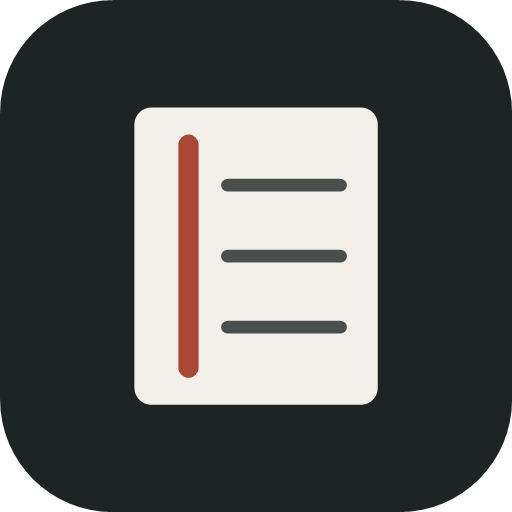
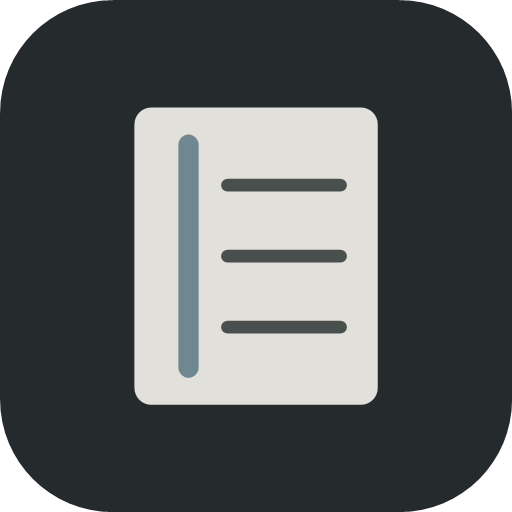
Soften migraine logging experience

Changed region(s): [[0.3438, 0.25, 0.4062, 0.75]]

diff --git a/styles.css b/styles.css
@@ -1,18 +1,19 @@
 :root {
-  --bg: #f3f0e9;
-  --surface: #fbfaf6;
-  --surface-2: #ece8df;
-  --text: #202423;
-  --text-dim: #666a66;
-  --line: #d4d0c7;
-  --line-strong: #aaa69d;
-  --accent: #a94735;
-  --accent-hover: #913a2c;
-  --accent-text: #fffaf5;
-  --danger: #9c302f;
-  --mild: #44735c;
-  --moderate: #a06a22;
-  --severe: #a94735;
+  --bg: #eceae5;
+  --surface: #f1efea;
+  --surface-2: #e2e0da;
+  --text: #333634;
+  --text-dim: #666b67;
+  --line: #d3d1ca;
+  --line-strong: #aaa9a3;
+  --accent: #536f78;
+  --accent-hover: #49636b;
+  --accent-text: #f3f1ec;
+  --danger: #86575a;
+  --mild: #4c6d5c;
+  --moderate: #755f35;
+  --severe: #86575a;
+  --choice-text: #fffaf5;
   --radius: 8px;
   --pad: 18px;
   --safe-b: env(safe-area-inset-bottom, 0px);
@@ -21,25 +22,27 @@
 
 @media (prefers-color-scheme: dark) {
   :root {
-    --bg: #111416;
-    --surface: #191d1f;
-    --surface-2: #222729;
-    --text: #eeeae2;
-    --text-dim: #aaa9a3;
-    --line: #34393a;
-    --line-strong: #595e5e;
-    --accent: #cc6d58;
-    --accent-hover: #db7b65;
-    --accent-text: #17100e;
-    --danger: #ec817b;
-    --mild: #78b091;
-    --moderate: #d2a05c;
-    --severe: #df7464;
+    --bg: #1b1e20;
+    --surface: #202426;
+    --surface-2: #262b2d;
+    --text: #c1c0ba;
+    --text-dim: #858986;
+    --line: #2c3234;
+    --line-strong: #3b4244;
+    --accent: #7b8e96;
+    --accent-hover: #8599a1;
+    --accent-text: #161b1d;
+    --danger: #b9787c;
+    --mild: #789683;
+    --moderate: #a48b60;
+    --severe: #a87579;
+    --choice-text: #161b1d;
     color-scheme: dark;
   }
 }
 
 * { box-sizing: border-box; }
+[hidden] { display: none !important; }
 
 body {
   margin: 0;
@@ -191,10 +194,10 @@ input:focus-visible, textarea:focus-visible, button:focus-visible, summary:focus
 .chip {
   min-height: 44px;
   padding: 8px 12px;
-  border: 1px solid var(--line-strong);
+  border: 1px solid var(--line);
   border-radius: 6px;
-  background: transparent;
-  color: var(--text);
+  background: color-mix(in srgb, var(--surface) 72%, transparent);
+  color: var(--text-dim);
   font: inherit;
   font-size: 0.87rem;
   cursor: pointer;
@@ -204,10 +207,33 @@ input:focus-visible, textarea:focus-visible, button:focus-visible, summary:focus
 .chip.on { border-color: var(--accent); background: var(--accent); color: var(--accent-text); font-weight: 650; }
 .chip-add { border-style: dashed; color: var(--text-dim); }
 .chip-wrap.has-x .chip { border-right: 0; border-radius: 6px 0 0 6px; }
-.chip-x { min-width: 44px; min-height: 44px; padding: 7px 10px; border: 1px solid var(--line-strong); border-radius: 0 6px 6px 0; background: transparent; color: var(--text-dim); font: inherit; font-size: 1rem; cursor: pointer; }
+.chip-x { min-width: 44px; min-height: 44px; padding: 7px 10px; border: 1px solid var(--line); border-radius: 0 6px 6px 0; background: color-mix(in srgb, var(--surface) 72%, transparent); color: var(--text-dim); font: inherit; font-size: 1rem; cursor: pointer; }
 .chip-x:hover { color: var(--danger); }
 .intensity-group .chips { display: grid; grid-template-columns: repeat(3, 1fr); gap: 6px; }
 .intensity-group .chip-wrap, .intensity-group .chip { width: 100%; }
+.intensity-group .chip[data-value="Mild"] {
+  border-color: color-mix(in srgb, var(--mild) 28%, var(--line));
+  background: color-mix(in srgb, var(--mild) 5%, transparent);
+  color: var(--mild);
+}
+.intensity-group .chip[data-value="Moderate"] {
+  border-color: color-mix(in srgb, var(--moderate) 28%, var(--line));
+  background: color-mix(in srgb, var(--moderate) 5%, transparent);
+  color: var(--moderate);
+}
+.intensity-group .chip[data-value="Severe"] {
+  border-color: color-mix(in srgb, var(--severe) 28%, var(--line));
+  background: color-mix(in srgb, var(--severe) 5%, transparent);
+  color: var(--severe);
+}
+.intensity-group .chip[data-value="Mild"].on,
+.intensity-group .chip[data-value="Moderate"].on,
+.intensity-group .chip[data-value="Severe"].on {
+  color: var(--choice-text);
+}
+.intensity-group .chip[data-value="Mild"].on { border-color: var(--mild); background: var(--mild); }
+.intensity-group .chip[data-value="Moderate"].on { border-color: var(--moderate); background: var(--moderate); }
+.intensity-group .chip[data-value="Severe"].on { border-color: var(--severe); background: var(--severe); }
 .hint { font-weight: 400; opacity: 0.85; }
 
 .entry.open .chev { transform: rotate(180deg); }

diff --git a/app.js b/app.js
@@ -28,6 +28,9 @@ let meta = loadMeta();
 // Entry id to open on the next render - a freshly logged entry shows its whole
 // editor rather than making you tap to open it.
 let openOnRender = null;
+// Entries logged in this session remain cancellable until their first save.
+// They are still written immediately, so an app close cannot lose the timestamp.
+const freshEntryIds = new Set();
 let customTriggers = loadCustomTriggers();
 
 /* ---- Storage ----------------------------------------------------------- */
@@ -103,7 +106,7 @@ function persistEntries(nextEntries) {
 
 // Call after any edit, so the backup status can flag a stale export file.
 function markChanged(n = 1) {
-  const nextMeta = { ...meta, pending: meta.pending + n };
+  const nextMeta = { ...meta, pending: Math.max(0, meta.pending + n) };
   if (!writeJSON(META_KEY, nextMeta)) return false;
   meta = nextMeta;
   renderBackupStatus();
@@ -221,6 +224,14 @@ function render() {
     notesInput.value = entry.notes;
     renderEntryMeta(li.querySelector('.entry-meta'), entry);
     fillChips(li, entry);
+
+    if (freshEntryIds.has(entry.id)) {
+      const cancel = li.querySelector('[data-act="cancel"]');
+      cancel.textContent = 'Discard';
+      cancel.classList.remove('btn-ghost');
+      cancel.classList.add('btn-danger');
+      li.querySelector('[data-act="delete"]').hidden = true;
+    }
 
     if (openIds.has(entry.id)) {
       li.classList.add('open');
@@ -669,12 +680,22 @@ list.addEventListener('click', (ev) => {
         toast('Could not save — device storage is full or blocked');
         return;
       }
+      freshEntryIds.delete(id);
       li.classList.remove('open');
       finishChange('Saved');
       break;
     }
 
     case 'cancel': {
+      if (freshEntryIds.has(id)) {
+        if (!persistEntries(entries.filter((e) => e.id !== id))) {
+          toast('Could not discard — device storage is full or blocked');
+          return;
+        }
+        freshEntryIds.delete(id);
+        finishChange('Entry discarded', -1);
+        return;
+      }
       li.classList.remove('open');
       li.querySelector('.entry-head').setAttribute('aria-expanded', 'false');
       body.hidden = true;
@@ -683,11 +704,13 @@ list.addEventListener('click', (ev) => {
 
     case 'delete': {
       if (!confirm(`Delete the entry from ${describe(new Date(entry.at))}?`)) return;
+      const wasFresh = freshEntryIds.has(id);
       if (!persistEntries(entries.filter((e) => e.id !== id))) {
         toast('Could not delete — device storage is full or blocked');
         return;
       }
-      finishChange('Entry deleted');
+      freshEntryIds.delete(id);
+      finishChange('Entry deleted', wasFresh ? -1 : 1);
       break;
     }
   }
@@ -703,6 +726,7 @@ $('logNow').addEventListener('click', () => {
     toast('Could not log — device storage is full or blocked');
     return;
   }
+  freshEntryIds.add(entry.id);
   openOnRender = entry.id;
   finishChange('Logged — add details or change the date below');
 

diff --git a/index.html b/index.html
@@ -7,8 +7,8 @@
 <meta name="description" content="A simple, private log for migraine attacks. Works offline.">
 <meta name="robots" content="noindex, nofollow">
 <link rel="manifest" href="manifest.webmanifest">
-<meta name="theme-color" content="#f3f0e9" media="(prefers-color-scheme: light)">
-<meta name="theme-color" content="#111416" media="(prefers-color-scheme: dark)">
+<meta name="theme-color" content="#eceae5" media="(prefers-color-scheme: light)">
+<meta name="theme-color" content="#1b1e20" media="(prefers-color-scheme: dark)">
 <meta name="apple-mobile-web-app-capable" content="yes">
 <meta name="apple-mobile-web-app-title" content="Migraine Log">
 <link rel="apple-touch-icon" href="icons/apple-touch-icon.png">

diff --git a/sw.js b/sw.js
@@ -1,6 +1,6 @@
 /* Service worker: makes the app load and work with no network at all.
    Bump CACHE when you change any of the files below. */
-const CACHE = 'migraine-log-v14';
+const CACHE = 'migraine-log-v20';
 
 const SHELL = [
   '.',

diff --git a/README.md b/README.md
@@ -104,10 +104,14 @@ entry with its date changed, and because a new entry opens with its date field
 right there, that takes the same number of taps a dedicated form would — with
 one screen to learn instead of two.
 
-Logging is committed the instant you tap, before the editor opens. **Cancel**
-therefore discards your unsaved edits but keeps the entry; it is not an undo
-for the log itself. That is deliberate — an entry should never be lost because
-the app closed mid-typing. Delete an unwanted entry with **Delete**.
+Logging is committed the instant you tap, before the editor opens, so the
+timestamp survives if the app closes mid-typing. Until you save that new entry,
+its secondary action is **Discard**: it removes the whole entry and reverses the
+backup-change count without another confirmation. **Delete** is hidden while
+Discard is available, so there is only one way to abandon a fresh entry. After
+the first save, **Cancel** only abandons the current edits and **Delete** removes
+the existing entry. If the app was closed before that first save, the crash-safe
+entry remains and can be removed with **Delete**.
 
 ### Statistics
 
@@ -247,11 +251,17 @@ on a phone and during an attack.
 
 ## Visual design
 
-The interface uses a quiet logbook vocabulary: warm paper tones in light mode,
-near-black neutral tones in dark mode, restrained terracotta accents, ruled
-entry rows, and a serif title. Pills, gradients, and stacked floating cards are
-deliberately avoided. Severity appears as a small edge marker rather than a
-large coloured surface, keeping the screen calm for light-sensitive users.
+The interface uses a quiet logbook vocabulary: low-glare warm grey tones in
+light mode, closely stepped charcoal tones in dark mode, a desaturated
+blue-grey accent, ruled entry rows, and a serif title. Secondary text and
+repeated control outlines are deliberately subdued so they do not form a
+bright visual grid. The palette avoids pure white, pure black, and bright
+saturated surfaces. Pills, gradients, and stacked floating cards are avoided.
+
+Mild, Moderate and Severe use muted green, amber and rose respectively in the
+picker, entry marker and statistics. The colours remain distinct without
+turning large areas of the screen bright, keeping the interface calmer for
+light-sensitive users and people experiencing aura.
 
 The app icon follows the same system: a simple paper log, accent spine, and
 three written lines. `tools/make-icons.ps1` is the source for all icon sizes.
